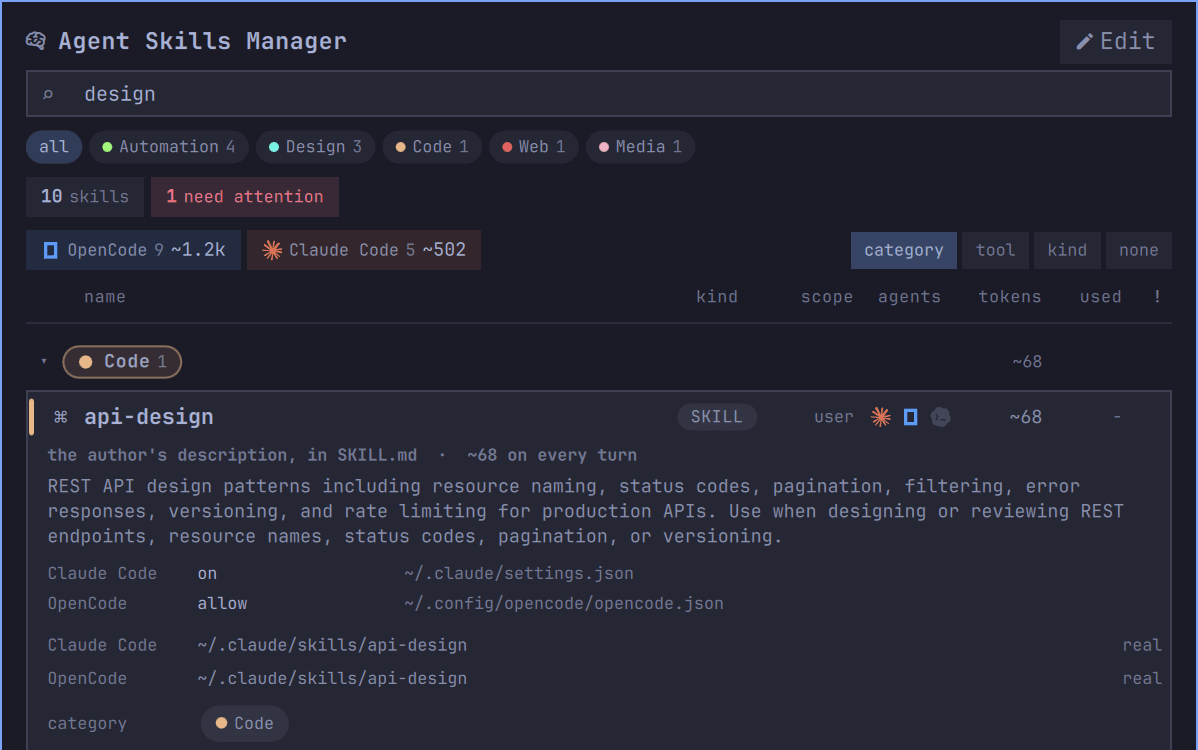
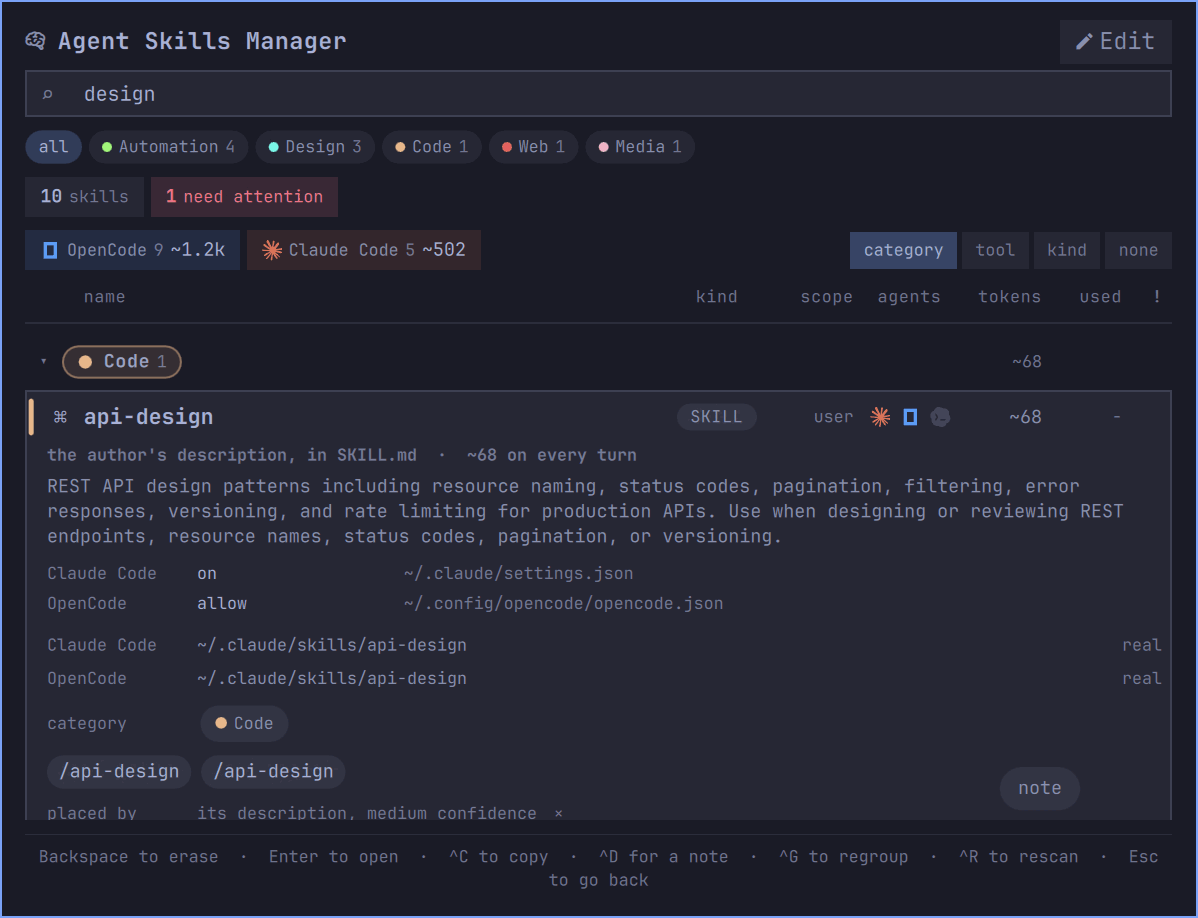
docs: re-shoot every screen against the read-only build
The crops that took the removed controls out of these were a stopgap: the
machine's displays were asleep, so four images were cut down rather than taken
again, and two of them stopped being screenshots of a screen -- card.png ended
above the corner it was meant to show, and describe.png was a 132-pixel strip
with no window around it.

Fourteen screens taken again off the running widget, all back at 1198x918, and
every one of them shows what this build actually does: the card's corner carries
one chip and it says `note`, the footer offers `^D for a note` and nothing after
it, and the editor is one field with the file it is about named underneath.
preview.png rebuilt from the new panel shot at the same 1600x1137.

The shoot script now takes the panel shot first and the grouped one last, with a
note saying why: `fresh` reopens the panel without resetting the grouping, so a
panel shot taken after the grouped one comes back on `tool` and is the same
picture under a caption that says category. That is exactly how the last one went
wrong.

Both captions that had been reworded to describe a crop say what the picture is
again.

diff --git a/README.md b/README.md
@@ -69,7 +69,7 @@ The coloured bar down the left is its category.
 
 ### Inside a row
 
-![The top of an opened skill](docs/card.png)
+![A skill opened](docs/card.png)
 
 Open a row and it stops summarising. The description is the one the agents actually read — the text costing
 you the tokens in the corner. Under it, the state each agent has this skill in and **the file that state is
@@ -179,7 +179,7 @@ way of knowing was still a draft.
 
 ## Your own notes
 
-![The note field, in the editor `^D` opens](docs/describe.png)
+![Writing a note about a skill](docs/describe.png)
 
 `^D` on an open row, or **note** in the corner of its card. It starts empty, it is drawn above the
 description in that skill's card, no agent ever sees it, and it is in no figure anywhere. Write what the
